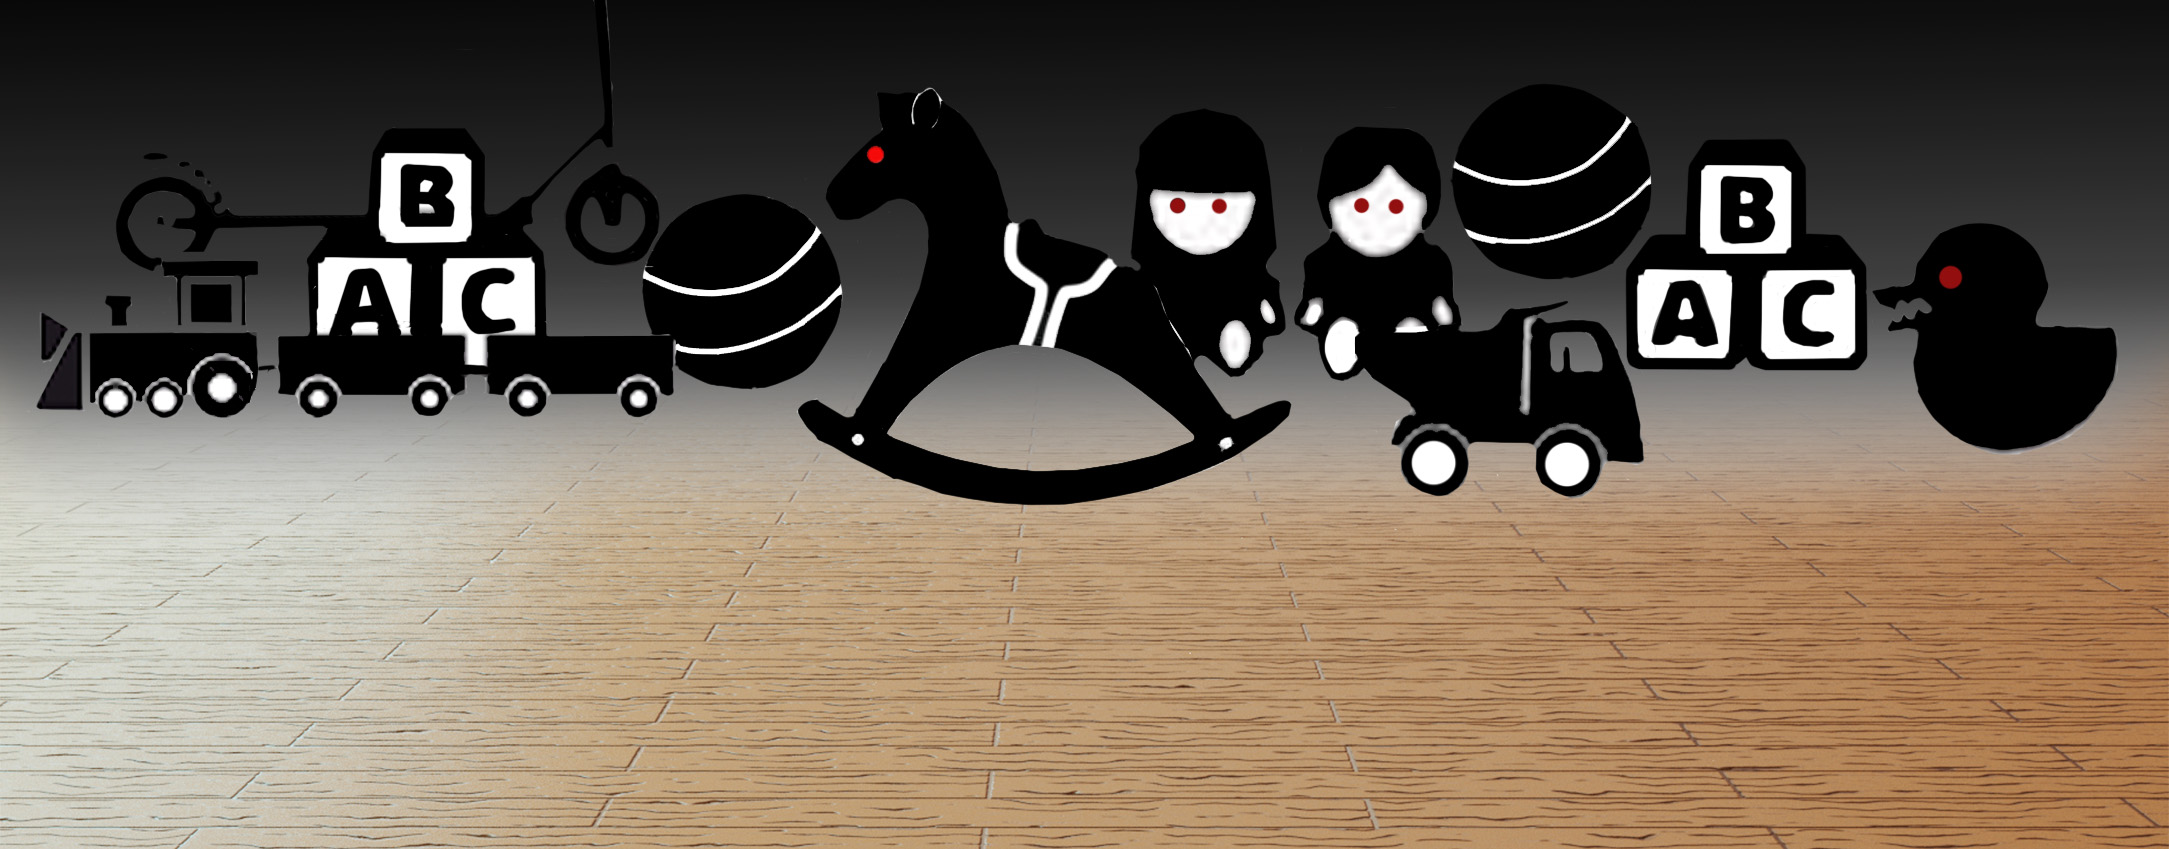
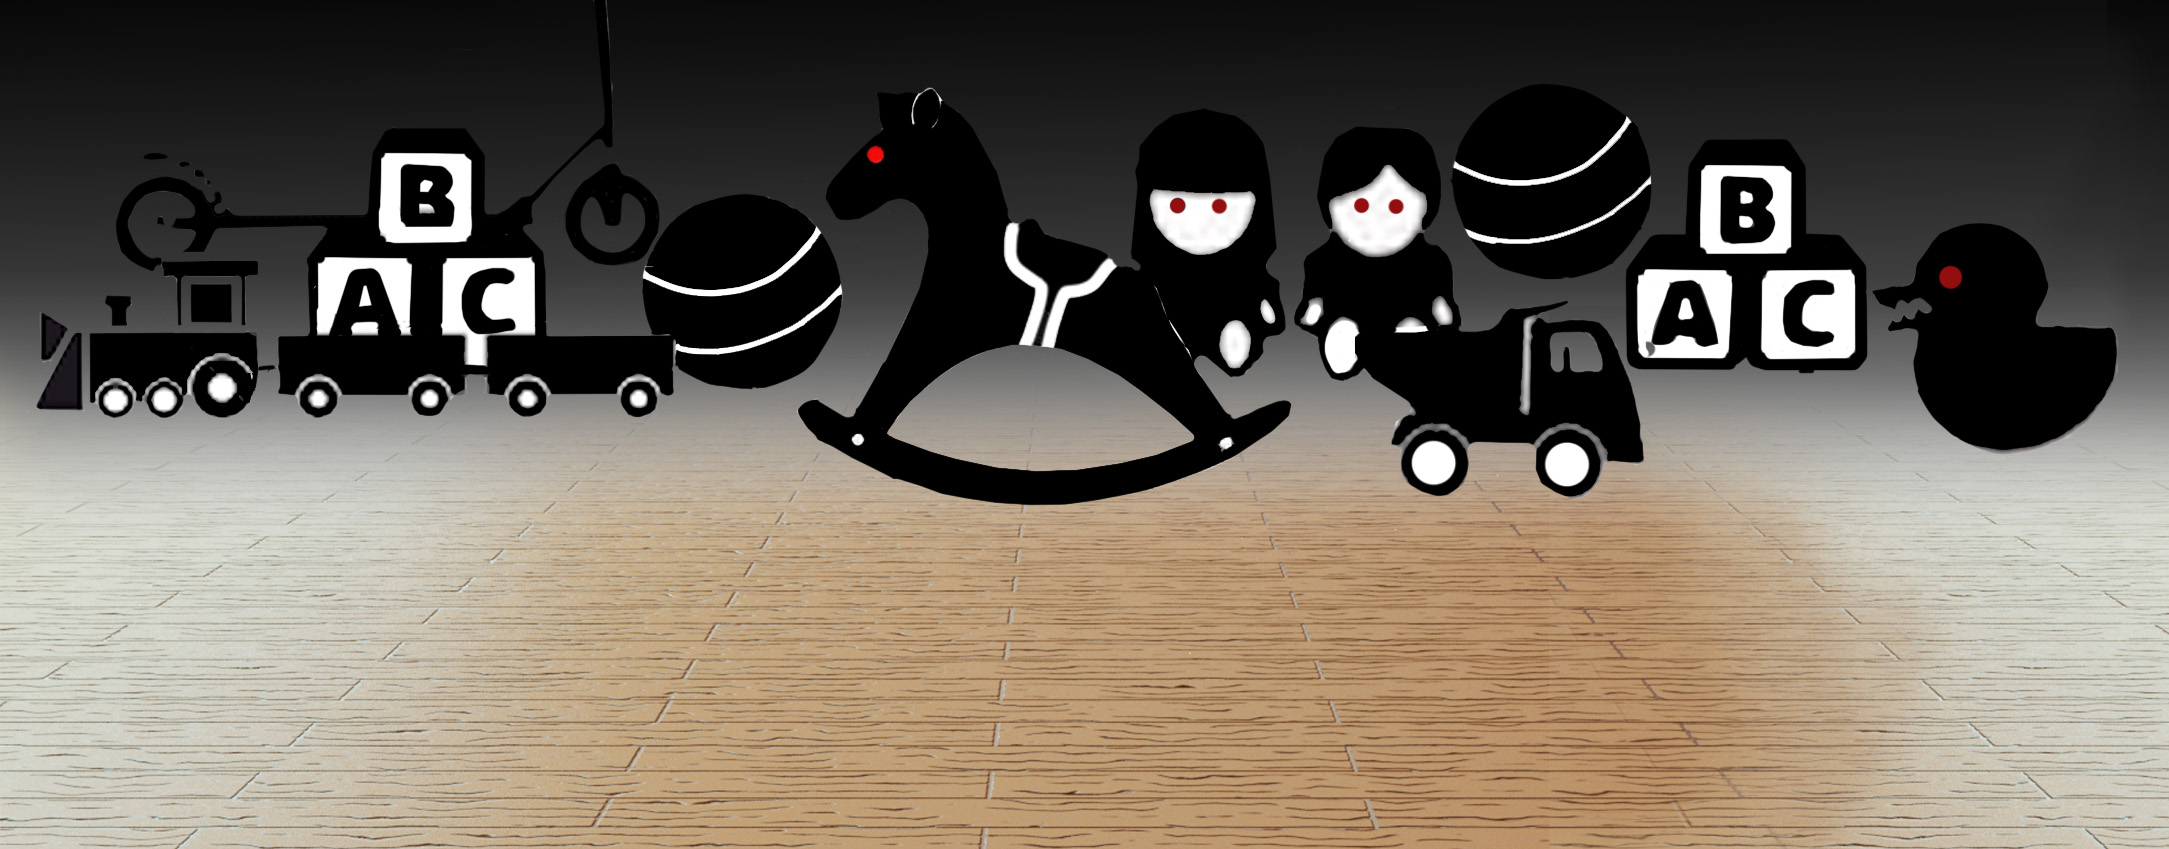
working on background/structure

Changed region(s): [[0.7105, 0.49, 1.0, 1.0]]

diff --git a/script.js b/script.js
@@ -1,24 +1,45 @@
 window.addEventListener("DOMContentLoaded", () => {
+// setcanvas postion
     const canvas = document.getElementById('canvas');
     const ctx = canvas.getContext('2d');
     const CANVAS_WIDTH = canvas.width =800;
     const CANVAS_HEIGHT = canvas.height =700;
-    let gameSpeed = 5;
-
+    let gameSpeed = 4;
+// add background layer
 const backgroundLayer =new Image();
 backgroundLayer.src = 'Images/FinalBackground.jpg';
 
 let x = 0;
+// set second image for loop/ to remove black space
+let x2 = 2169;
 
 function animate(){
     ctx.clearRect(0, 0, CANVAS_WIDTH, CANVAS_HEIGHT);
     ctx.drawImage(backgroundLayer, x, 0);
-    x -= gameSpeed;
+ //second image for loop-x2
+    ctx.drawImage(backgroundLayer, x2, 0);   
+// change size of background
+    if (x < -2170) x =2170 + x2 - gameSpeed;
+        else x -= gameSpeed;
+    if (x2 < -2170) x2 =2170 + x - gameSpeed;
+    else x2 -= gameSpeed;    
     requestAnimationFrame(animate);
 };
 
 animate();
     
+// detect end of screen so image loops
 
+
+//create player
+
+//create AI  enemies
+//make enemies detect obsticles 
+
+//set up   player and enemie collison recognition
+//set up platforms and obsticles
+//make enemies dissapear when defeated
+//add scorekeeping
+//add game over/restart
 
 })

diff --git a/Pavor-Nocturnus.html b/Pavor-Nocturnus.html
@@ -11,8 +11,9 @@
 <body>
  <canvas id="canvas"></canvas>
 
-
-
+<!-- set up home page -->
+<!-- create start button -->
+<!-- center text name of game over image -->
 
     </div>
   <script src="script.js" ></script> 
